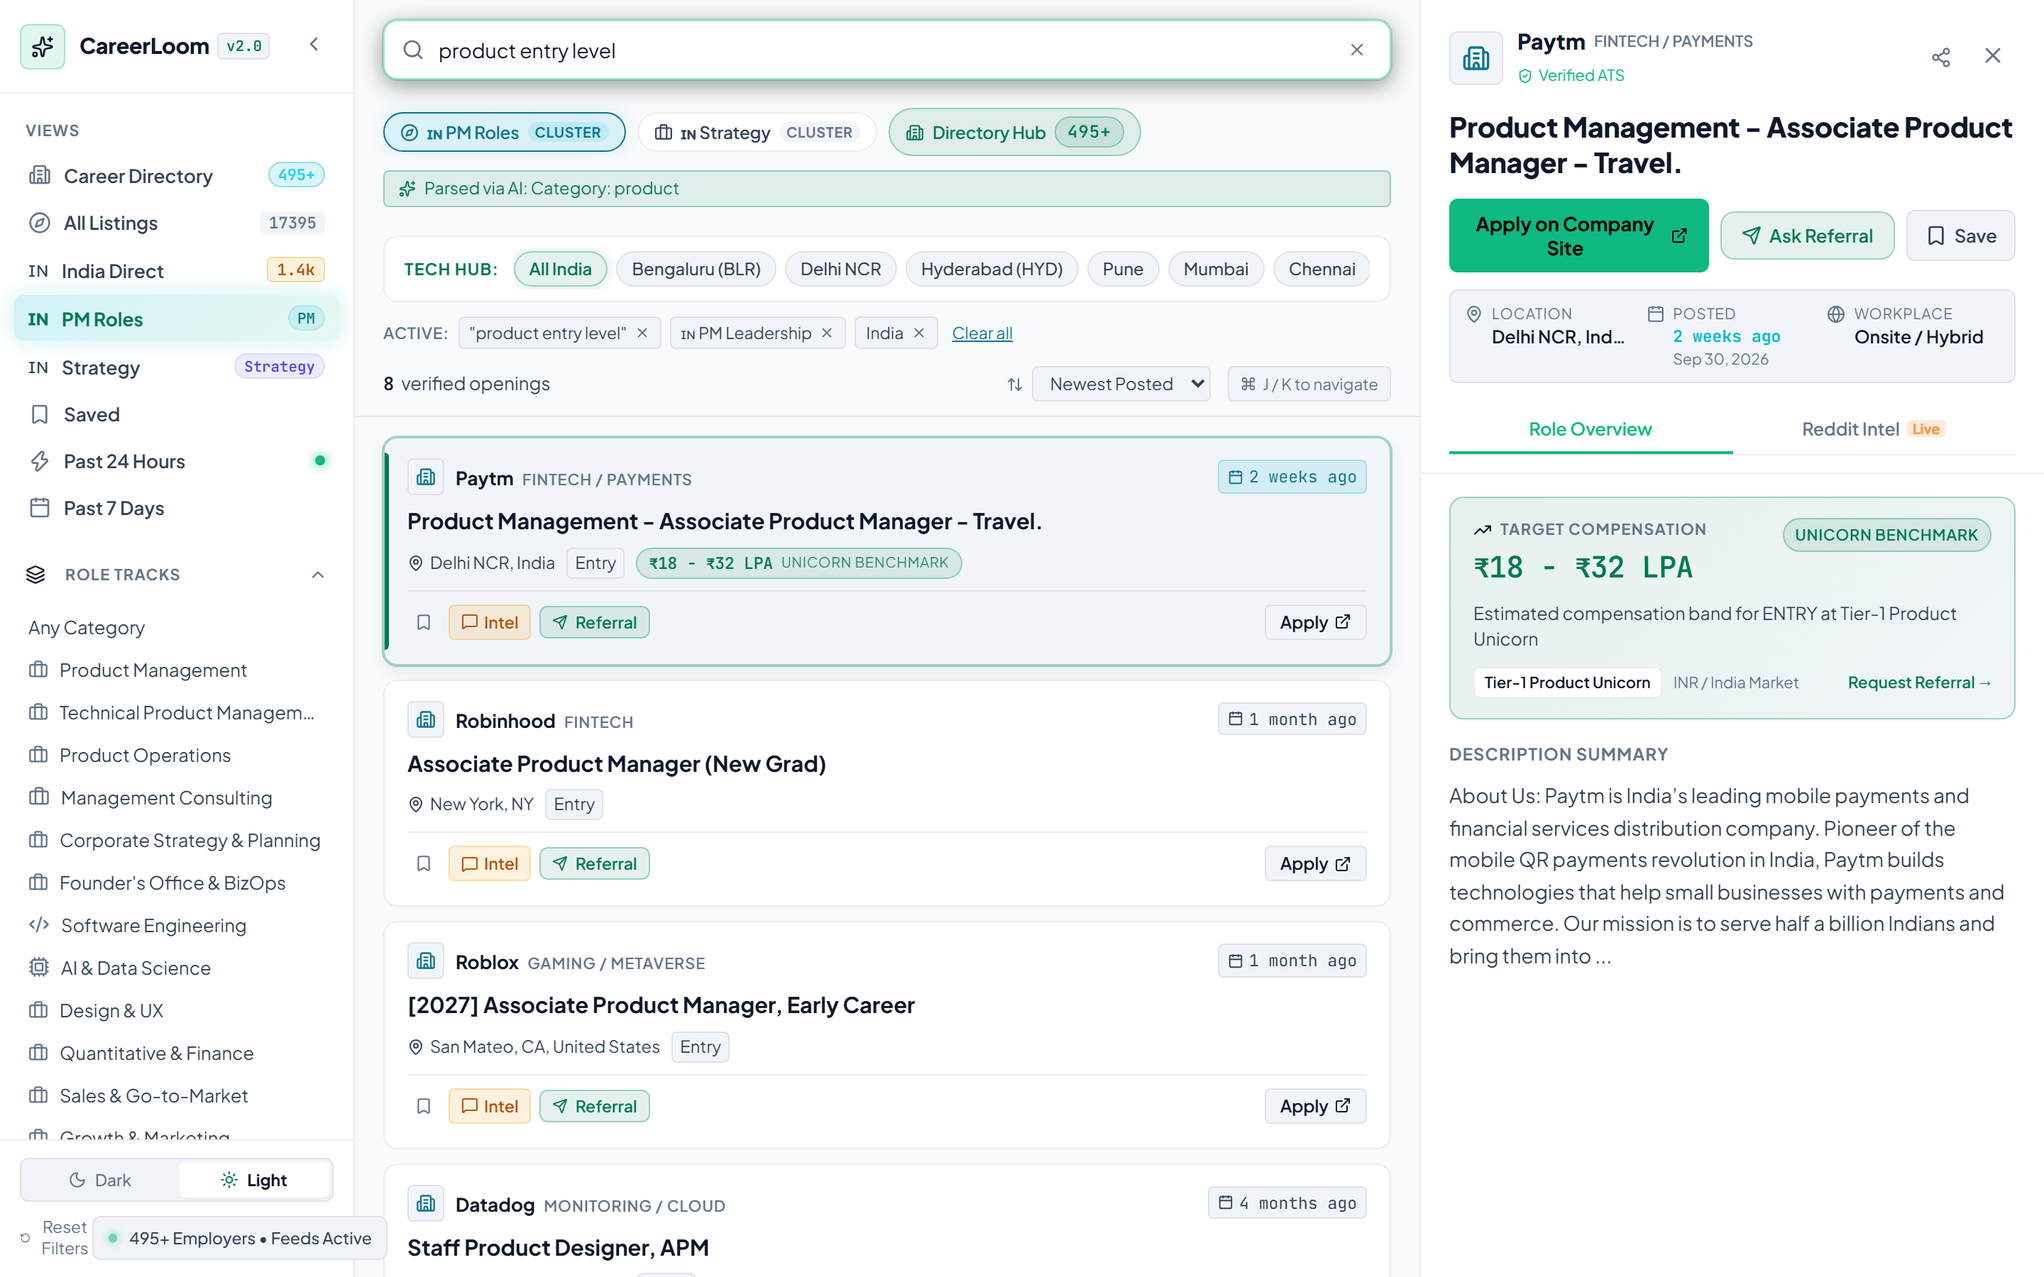
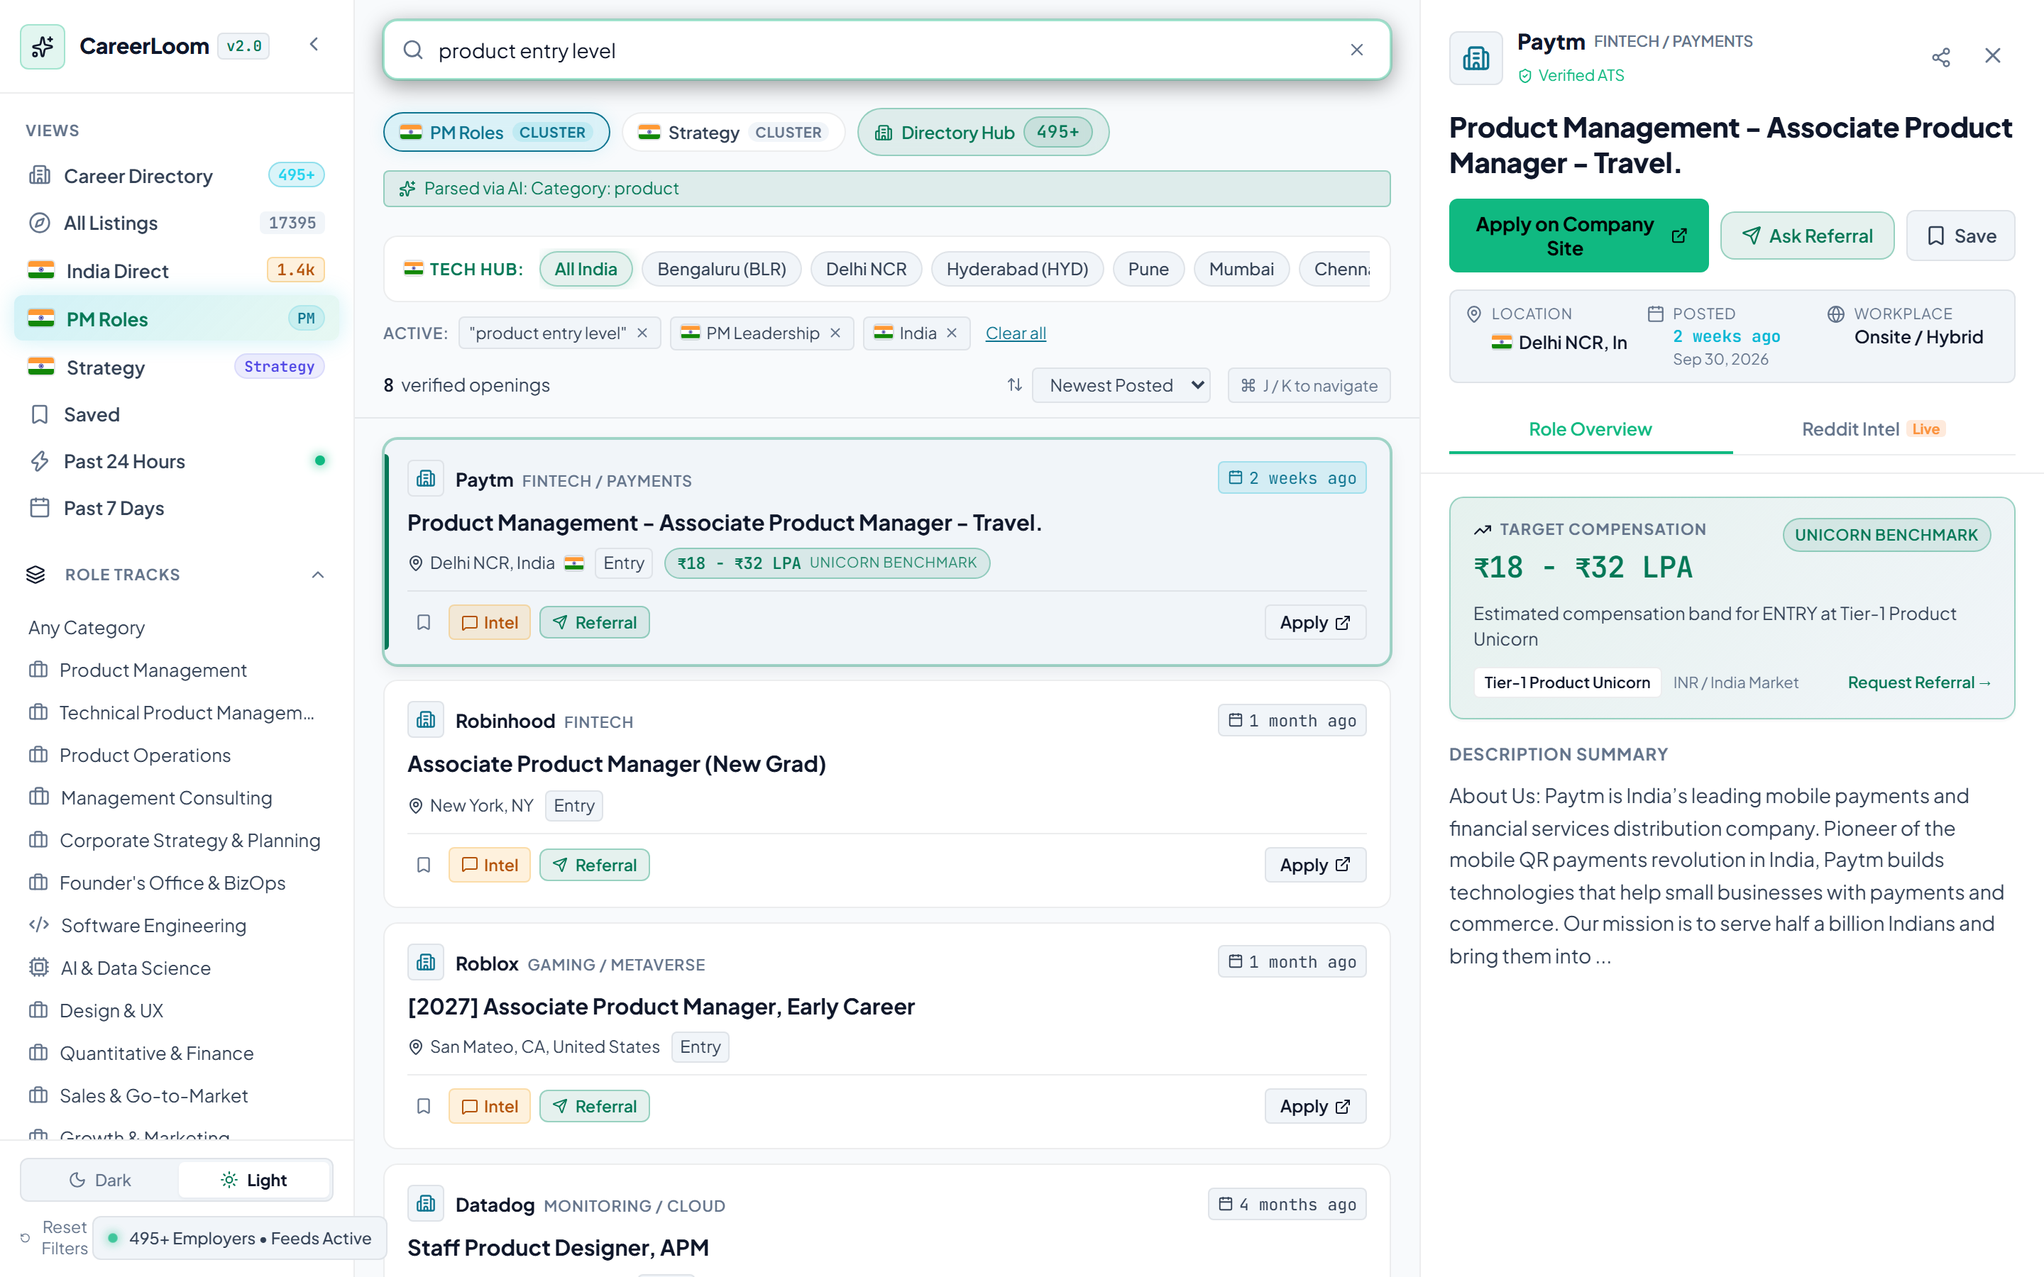
feat(ui): replace Windows IN emoji fallback with cross-platform India flag SVG

diff --git a/frontend/src/components/MasterJobStream.tsx b/frontend/src/components/MasterJobStream.tsx
@@ -14,12 +14,11 @@ import {
   AlertCircle,
   Command,
   Send,
-  Compass,
-  Briefcase,
 } from 'lucide-react';
 import type { FilterState, JobItem, ParsedQuery } from '../types/job';
 import { formatJobDate } from '../utils/dateFormatter';
 import { getCTCInfo } from '../utils/ctcFormatter';
+import { IndiaFlag } from './IndiaFlag';
 
 interface MasterJobStreamProps {
   jobs: JobItem[];
@@ -66,7 +65,7 @@ export const MasterJobStream: React.FC<MasterJobStreamProps> = ({
   monitoredCount,
   syncFreshnessText: _syncFreshnessText,
 }) => {
-  const activeChips: { label: string; onClear: () => void }[] = [];
+  const activeChips: { label: React.ReactNode; onClear: () => void }[] = [];
 
   if (filters.searchPrompt) {
     activeChips.push({
@@ -75,11 +74,19 @@ export const MasterJobStream: React.FC<MasterJobStreamProps> = ({
     });
   }
   if (filters.category) {
-    let catLabel = filters.category.replace(/_/g, ' ');
+    let catLabel: React.ReactNode = filters.category.replace(/_/g, ' ');
     if (filters.category === 'product_cluster') {
-      catLabel = '🇮🇳 PM Leadership';
+      catLabel = (
+        <span style={{ display: 'inline-flex', alignItems: 'center', gap: '5px' }}>
+          <IndiaFlag size={13} /> PM Leadership
+        </span>
+      );
     } else if (filters.category === 'strategy_cluster') {
-      catLabel = '🇮🇳 Strategy & Consulting';
+      catLabel = (
+        <span style={{ display: 'inline-flex', alignItems: 'center', gap: '5px' }}>
+          <IndiaFlag size={13} /> Strategy & Consulting
+        </span>
+      );
     }
     activeChips.push({
       label: catLabel,
@@ -105,7 +112,13 @@ export const MasterJobStream: React.FC<MasterJobStreamProps> = ({
   }
   if (filters.country) {
     activeChips.push({
-      label: filters.country,
+      label: filters.country === 'India' ? (
+        <span style={{ display: 'inline-flex', alignItems: 'center', gap: '5px' }}>
+          <IndiaFlag size={13} /> India
+        </span>
+      ) : (
+        filters.country
+      ),
       onClear: () => onFilterChange({ country: '' }),
     });
   }
@@ -186,8 +199,8 @@ export const MasterJobStream: React.FC<MasterJobStreamProps> = ({
             }}
             title="1-Click filter for Product Management roles across India"
           >
-            <Compass size={13} className="track-pill-icon text-cyan-400" />
-            <span className="track-pill-text">🇮🇳 PM Roles</span>
+            <IndiaFlag size={15} />
+            <span className="track-pill-text">PM Roles</span>
             <span className="track-pill-badge">Cluster</span>
           </button>
 
@@ -203,8 +216,8 @@ export const MasterJobStream: React.FC<MasterJobStreamProps> = ({
             }}
             title="1-Click filter for Strategy & Consulting roles across India"
           >
-            <Briefcase size={13} className="track-pill-icon text-indigo-400" />
-            <span className="track-pill-text">🇮🇳 Strategy</span>
+            <IndiaFlag size={15} />
+            <span className="track-pill-text">Strategy</span>
             <span className="track-pill-badge">Cluster</span>
           </button>
 
@@ -238,7 +251,9 @@ export const MasterJobStream: React.FC<MasterJobStreamProps> = ({
         {/* Indian Metro Tech Hub Quick Filter Ribbon */}
         {filters.country === 'India' && (
           <div className="metro-hub-ribbon" role="toolbar" aria-label="Indian Metro Tech Hubs">
-            <span className="metro-ribbon-label">Tech Hub:</span>
+            <span className="metro-ribbon-label" style={{ display: 'inline-flex', alignItems: 'center', gap: '5px' }}>
+              <IndiaFlag size={13} /> Tech Hub:
+            </span>
             <div className="metro-chips-scroll">
               {[
                 { id: '', label: 'All India' },
@@ -407,6 +422,7 @@ export const MasterJobStream: React.FC<MasterJobStreamProps> = ({
                   <div className="stream-attr-location">
                     <MapPin size={12} />
                     <span>{job.location || 'Multiple Locations'}</span>
+                    {job.country === 'India' && <IndiaFlag size={13} style={{ marginLeft: 3 }} />}
                   </div>
 
                   {job.is_remote && (

diff --git a/frontend/src/components/NavRail.tsx b/frontend/src/components/NavRail.tsx
@@ -23,6 +23,7 @@ import {
 } from 'lucide-react';
 import type { Category, FilterState } from '../types/job';
 import { ThemeToggle } from './ThemeToggle';
+import { IndiaFlag } from './IndiaFlag';
 
 interface NavRailProps {
   isCollapsed: boolean;
@@ -176,7 +177,7 @@ export const NavRail: React.FC<NavRailProps> = ({
               title="Filter exclusively for verified jobs across Indian Unicorns & Tech Hubs"
             >
               <div className="nav-btn-left">
-                <span className="india-flag-icon" role="img" aria-label="India flag">🇮🇳</span>
+                <IndiaFlag size={18} className="india-flag-icon" />
                 {!isCollapsed && <span className="nav-text font-medium">India Direct</span>}
               </div>
               {!isCollapsed && (
@@ -199,7 +200,7 @@ export const NavRail: React.FC<NavRailProps> = ({
               title="Filter for verified Product Management openings across India"
             >
               <div className="nav-btn-left">
-                <span className="india-flag-icon" role="img" aria-label="India flag">🇮🇳</span>
+                <IndiaFlag size={18} className="india-flag-icon" />
                 {!isCollapsed && <span className="nav-text font-medium">PM Roles</span>}
               </div>
               {!isCollapsed && (
@@ -222,7 +223,7 @@ export const NavRail: React.FC<NavRailProps> = ({
               title="Filter for Strategy, Consulting & Founder's Office openings across India"
             >
               <div className="nav-btn-left">
-                <span className="india-flag-icon" role="img" aria-label="India flag">🇮🇳</span>
+                <IndiaFlag size={18} className="india-flag-icon" />
                 {!isCollapsed && <span className="nav-text font-medium">Strategy</span>}
               </div>
               {!isCollapsed && (
@@ -407,7 +408,11 @@ export const NavRail: React.FC<NavRailProps> = ({
                 <div className="filter-group-mini">
                   <span className="mini-label">Geography</span>
                   <div className="filter-select-wrap">
-                    <Globe size={13} className="select-icon" />
+                    {filters.country === 'India' ? (
+                      <IndiaFlag size={14} className="select-icon" />
+                    ) : (
+                      <Globe size={13} className="select-icon" />
+                    )}
                     <select
                       className="filter-select-input"
                       value={filters.country}
@@ -415,7 +420,7 @@ export const NavRail: React.FC<NavRailProps> = ({
                       aria-label="Filter by Country or Region"
                     >
                       <option value="">Global / All Regions</option>
-                      <option value="India">🇮🇳 India</option>
+                      <option value="India">India</option>
                       <option value="United States">United States</option>
                       <option value="United Kingdom">United Kingdom</option>
                       <option value="Europe">Europe (Regional)</option>

diff --git a/frontend/src/components/IndiaFlag.tsx b/frontend/src/components/IndiaFlag.tsx
@@ -1,0 +1,69 @@
+import React from 'react';
+
+interface IndiaFlagProps {
+  size?: number;
+  className?: string;
+  style?: React.CSSProperties;
+}
+
+/**
+ * Pixel-perfect, high-craft SVG representation of the Indian Tricolor flag (Tiranga).
+ * Eliminates Windows-specific fallback to literal "IN" text for emoji 🇮🇳 while
+ * providing crisp, retina-sharp display across all platforms.
+ */
+export const IndiaFlag: React.FC<IndiaFlagProps> = ({
+  size = 16,
+  className = '',
+  style,
+}) => {
+  const width = size;
+  const height = Math.max(10, Math.round((size * 2) / 3));
+
+  return (
+    <svg
+      width={width}
+      height={height}
+      viewBox="0 0 900 600"
+      className={`india-flag-svg ${className}`}
+      style={{
+        display: 'inline-block',
+        verticalAlign: 'middle',
+        borderRadius: '2px',
+        boxShadow: '0 0 0 1px rgba(15, 23, 42, 0.12)',
+        flexShrink: 0,
+        ...style,
+      }}
+      role="img"
+      aria-label="India flag"
+      xmlns="http://www.w3.org/2000/svg"
+    >
+      {/* Saffron Top Band */}
+      <rect width="900" height="200" fill="#FF9933" />
+      {/* White Middle Band */}
+      <rect y="200" width="900" height="200" fill="#FFFFFF" />
+      {/* Green Bottom Band */}
+      <rect y="400" width="900" height="200" fill="#138808" />
+
+      {/* Ashoka Chakra in Navy Blue */}
+      <g transform="translate(450, 300)">
+        <circle r="78" fill="none" stroke="#000080" strokeWidth="15" />
+        <circle r="18" fill="#000080" />
+        {/* 24 Spokes (15 deg separation) */}
+        {Array.from({ length: 24 }).map((_, i) => (
+          <line
+            key={i}
+            x1="0"
+            y1="0"
+            x2="0"
+            y2="-78"
+            stroke="#000080"
+            strokeWidth="5.5"
+            transform={`rotate(${i * 15})`}
+          />
+        ))}
+      </g>
+    </svg>
+  );
+};
+
+export default IndiaFlag;

diff --git a/frontend/src/components/JobInspectorPane.tsx b/frontend/src/components/JobInspectorPane.tsx
@@ -25,6 +25,7 @@ import type { CommunityInsights, JobItem } from '../types/job';
 import { formatJobDate } from '../utils/dateFormatter';
 import { getCTCInfo } from '../utils/ctcFormatter';
 import { fetchCommunityInsights } from '../services/api';
+import { IndiaFlag } from './IndiaFlag';
 
 interface JobInspectorPaneProps {
   job: JobItem | null;
@@ -199,7 +200,10 @@ export const JobInspectorPane: React.FC<JobInspectorPaneProps> = ({
             <MapPin size={13} className="tile-icon" />
             <div>
               <span className="tile-label">Location</span>
-              <span className="tile-val">{job.location || 'Multiple Locations'}</span>
+              <span className="tile-val" style={{ display: 'inline-flex', alignItems: 'center', gap: '5px' }}>
+                {job.country === 'India' && <IndiaFlag size={14} />}
+                <span>{job.location || 'Multiple Locations'}</span>
+              </span>
             </div>
           </div>
 
@@ -336,8 +340,8 @@ export const JobInspectorPane: React.FC<JobInspectorPaneProps> = ({
                         <Globe size={12} className="text-cyan-400" />
                         <span>Community Hub</span>
                       </div>
-                      <span className="stat-highlight">
-                        {insights.subreddit.toLowerCase().includes('developersindia') && '🇮🇳 '}
+                      <span className="stat-highlight" style={{ display: 'inline-flex', alignItems: 'center' }}>
+                        {insights.subreddit.toLowerCase().includes('developersindia') && <IndiaFlag size={13} style={{ marginRight: 5 }} />}
                         {insights.subreddit.startsWith('r/') ? insights.subreddit : `r/${insights.subreddit}`}
                       </span>
                     </div>

diff --git a/frontend/src/components/FilterSidebar.tsx b/frontend/src/components/FilterSidebar.tsx
@@ -1,6 +1,7 @@
 import React from 'react';
 import { Filter, RotateCcw, Clock, Globe, Briefcase, Award, ArrowUpDown, Laptop } from 'lucide-react';
 import type { FilterState } from '../types/job';
+import { IndiaFlag } from './IndiaFlag';
 
 interface FilterSidebarProps {
   filters: FilterState;
@@ -139,7 +140,11 @@ export const FilterSidebar: React.FC<FilterSidebarProps> = ({
       {/* Region / Country */}
       <div className="filter-group">
         <div className="filter-group-title">
-          <Globe size={14} className="filter-icon" />
+          {filters.country === 'India' ? (
+            <IndiaFlag size={14} className="filter-icon" />
+          ) : (
+            <Globe size={14} className="filter-icon" />
+          )}
           <span>Region & Country</span>
         </div>
         <select
@@ -159,7 +164,7 @@ export const FilterSidebar: React.FC<FilterSidebarProps> = ({
       {filters.country === 'India' && (
         <div className="filter-group animate-fade-in">
           <div className="filter-group-title">
-            <Globe size={14} className="filter-icon text-emerald-400" />
+            <IndiaFlag size={15} style={{ marginRight: 6 }} />
             <span>Indian Tech Hub</span>
           </div>
           <select

diff --git a/frontend/src/components/CommunityInsightsDrawer.tsx b/frontend/src/components/CommunityInsightsDrawer.tsx
@@ -14,6 +14,7 @@ import {
 } from 'lucide-react';
 import type { CommunityInsights, JobItem } from '../types/job';
 import { fetchCommunityInsights } from '../services/api';
+import { IndiaFlag } from './IndiaFlag';
 
 interface CommunityInsightsDrawerProps {
   job: JobItem | null;
@@ -106,8 +107,8 @@ export const CommunityInsightsDrawer: React.FC<CommunityInsightsDrawerProps> = (
               <div className="drawer-subhead">
                 <span>Community Intel</span>
                 {insights?.subreddit && (
-                  <span className="subreddit-badge">
-                    {insights.subreddit.toLowerCase().includes('developersindia') && '🇮🇳 '}
+                  <span className="subreddit-badge" style={{ display: 'inline-flex', alignItems: 'center' }}>
+                    {insights.subreddit.toLowerCase().includes('developersindia') && <IndiaFlag size={13} style={{ marginRight: 5 }} />}
                     {insights.subreddit.startsWith('r/') ? insights.subreddit : `r/${insights.subreddit}`}
                   </span>
                 )}

diff --git a/frontend/src/App.css b/frontend/src/App.css
@@ -3216,10 +3216,24 @@
 }
 
 .india-flag-icon {
-  font-size: 1rem;
-  line-height: 1;
+  display: inline-flex;
+  align-items: center;
+  justify-content: center;
+  flex-shrink: 0;
+}
+
+.india-flag-svg {
   display: inline-block;
-  transform: translateY(-1px);
+  vertical-align: middle;
+  border-radius: 2px;
+  box-shadow: 0 0 0 1px rgba(15, 23, 42, 0.15);
+  flex-shrink: 0;
+  transition: transform 0.15s ease;
+}
+
+.rail-nav-btn:hover .india-flag-svg,
+.track-pill-btn:hover .india-flag-svg {
+  transform: scale(1.06);
 }
 
 .nav-count-badge.india-badge {

diff --git a/neural_map.md b/neural_map.md
@@ -119,5 +119,7 @@ graph TD
     - **WCAG 2.2 AA Contrast Enforcement**: Strict contrast thresholds (primary text `#0f172a` > 14:1, secondary `#334155` > 8:1, muted `#64748b` >= 4.5:1, light mode primary action emerald `#047857` >= 5.4:1). Automated mathematical verification via [scripts/verify_contrast.py](file:///c:/Users/u1233270/Downloads/Personal%20Apps/Temporal%20Loom/scripts/verify_contrast.py) (25/25 color pairs passed).
     - **Semantic Badge Subsystem**: Dual-mode tokens mapping domain, remote, tier, match, and CTC compensation badges to pastel alpha containers with saturated high-contrast foreground text (>4.5:1).
     - **Viscoelastic Theme Controller ([useTheme.ts](file:///c:/Users/u1233270/Downloads/Personal%20Apps/Temporal%20Loom/frontend/src/hooks/useTheme.ts))**: Local storage persistence + system `prefers-color-scheme` synchronization, zero-FOUC hydration script in [index.html](file:///c:/Users/u1233270/Downloads/Personal%20Apps/Temporal%20Loom/frontend/index.html), and Apple fluid spring toggle controls ([ThemeToggle.tsx](file:///c:/Users/u1233270/Downloads/Personal%20Apps/Temporal%20Loom/frontend/src/components/ThemeToggle.tsx)) in [NavRail.tsx](file:///c:/Users/u1233270/Downloads/Personal%20Apps/Temporal%20Loom/frontend/src/components/NavRail.tsx) and mobile [Header.tsx](file:///c:/Users/u1233270/Downloads/Personal%20Apps/Temporal%20Loom/frontend/src/components/Header.tsx).
-    - **Comprehensive Component Retheming ([App.css](file:///c:/Users/u1233270/Downloads/Personal%20Apps/Temporal%20Loom/frontend/src/App.css) & [CareerDirectoryModal.css](file:///c:/Users/u1233270/Downloads/Personal%20Apps/Temporal%20Loom/frontend/src/components/CareerDirectoryModal.css))**: Full visual continuity across stream cards, inspector pane, modal dialogs, and forms without dark-bleed.
+16. **Cross-Platform Indian Flag Vector Architecture ([frontend/src/components/IndiaFlag.tsx](file:///c:/Users/u1233270/Downloads/Personal%20Apps/Temporal%20Loom/frontend/src/components/IndiaFlag.tsx))**
+    - **Vector Tricolor Engine**: Native SVG rendering with exact 3:2 aspect ratio, saffron (`#FF9933`), white (`#FFFFFF`), green (`#138808`), and 24-spoke Ashoka Chakra (`#000080`), completely bypassing Windows OS `Segoe UI Emoji` font limitations that fall back `🇮🇳` to literal "IN" text.
+    - **Integrated Touchpoints**: Seamlessly wired into [NavRail.tsx](file:///c:/Users/u1233270/Downloads/Personal%20Apps/Temporal%20Loom/frontend/src/components/NavRail.tsx), [MasterJobStream.tsx](file:///c:/Users/u1233270/Downloads/Personal%20Apps/Temporal%20Loom/frontend/src/components/MasterJobStream.tsx), [FilterSidebar.tsx](file:///c:/Users/u1233270/Downloads/Personal%20Apps/Temporal%20Loom/frontend/src/components/FilterSidebar.tsx), [JobInspectorPane.tsx](file:///c:/Users/u1233270/Downloads/Personal%20Apps/Temporal%20Loom/frontend/src/components/JobInspectorPane.tsx), and [CommunityInsightsDrawer.tsx](file:///c:/Users/u1233270/Downloads/Personal%20Apps/Temporal%20Loom/frontend/src/components/CommunityInsightsDrawer.tsx).
 

diff --git a/great_ideas.md b/great_ideas.md
@@ -91,3 +91,10 @@
 - **Viscoelastic Dual-Theme Toggle**:
   - Tactile theme switcher with Apple fluid spring kinetics (`damping: 1.0`) embedded cleanly in the left navigation rail.
   - Zero-flash theme hydration via local storage synchronization and system `prefers-color-scheme` support.
+
+## 11. Cross-Platform Tiranga SVG & Unicode Fallback Elimination
+- **Zero-Dependency SVG Tiranga**:
+  - Windows 10/11 system font `Segoe UI Emoji` lacks regional indicator flag glyphs by OS policy, rendering `🇮🇳` as literal letters "IN".
+  - Standardized vector `<IndiaFlag />` component featuring accurate 3:2 tricolor geometry (saffron `#FF9933`, white `#FFFFFF`, green `#138808`) and central 24-spoke Ashoka Chakra (`#000080`).
+  - Seamlessly embedded in navigation rails, category cluster pills, active filter badges, job card locations, and Reddit community insights across all platforms and themes.
+
